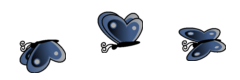
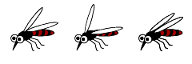
cambios!!

Changed region(s): [[0.375, 0.0625, 0.6562, 0.8125], [0.0312, 0.125, 0.3125, 0.9375], [0.7188, 0.1875, 0.9688, 0.8125]]

diff --git a/javascript/insect.js b/javascript/insect.js
@@ -16,8 +16,8 @@ Insect.prototype = new Container();
 	Insect.typeFrames = {	// frames for each insect type
 		1: {width:80, height:80, regX:40, regY:40},
 		2: {width:80, height:80, regX:40, regY:40},
-		3: {width:64, height:64, regX:32, regY:32},
-		4: {width:80, height:80, regX:40, regY:40},
+		3: {width:80, height:80, regX:40, regY:40},
+		4: {width:64, height:64, regX:32, regY:32},
 		5: {width:180, height:180, regX:90, regY:90},
 	};		
 	
@@ -87,7 +87,7 @@ Insect.prototype = new Container();
 	//handle reinit for poolings sake
 	Insect.prototype.activate = function (type, power) {
 		if (power<0) power = 0;
-		if (type >= Insect.types) type = 1;
+		if (type > Insect.types) type = 1;
 		this.type = type;
 		this.power = power;
 		
@@ -200,7 +200,18 @@ Insect.prototype = new Container();
 						//console.log(radio);
 					}
 					break;
-				case 2:	// Avispa: Se mueve rápido y efectua 3 cambios de dirección
+				case 2: // Mariposa: Baja rápidamente cuando les estan disparando y luego vuelve a subir lentamente
+				    if (this.step==0) {
+				        this.bmpAnimation.gotoAndStop('fly');
+				        this.vY = 6;
+				        this.vX = (Math.random()-0.5)*0.2;
+				    } else if (this.step==15) {
+				        this.vY = -0.2
+				        this.step=650;
+				        this.bmpAnimation.gotoAndPlay('fly');
+				    }
+				    break;
+				case 3:	// Avispa: Se mueve rápido y efectua 3 cambios de dirección
 					if (this.step%250 == 0) {
 						this.step+=200;
 						this.vX = 3 * (Math.random()-0.5);
@@ -231,11 +242,6 @@ Insect.prototype = new Container();
 						//this.vY = ((0.1+Math.random())*h)*0.01;
 					}
 					break;
-				case 3:
-					
-				case 4:
-
-				case 5:
 				
 				default:
 				

diff --git a/charca.php b/charca.php
@@ -87,8 +87,9 @@ var levelConfig = {
 	5: [85, 75, 4],	// 85
 	6: [90, 70, 4],	// 90
 	7: [95, 65, 4],	// 95
-	8: [100,60, 4],	// 100
+	8: [100,60, 5],	// 100
 	9: [105,55, 5],	// 105
+	10: [405,10, 6],// 405
 };
 
 /*
@@ -319,11 +320,18 @@ function tick() {
 		if(outOfBounds(o, o.bounds)) {
 			placeInBounds(o, o.bounds);
 		}
+		// handle insect's actions
 		if (!o.action && !o.killed) {
-			var nextAction = Math.round(((Math.random()-0.77)*5) * o.power);	// 23% de probabilidad
-			if (nextAction > 0) {
-				o.perform(nextAction);
-				//console.log('Insect '+insect+' performing action '+nextAction );
+		    if (o.type == 2) {  // Mariposa
+		        if (frog.shooting && o.hitRadius(frog.tongueTarget.x, frog.tongueTarget.y, 50)) {
+		            o.perform(1);
+		        }
+		    } else {
+			    var nextAction = Math.round(((Math.random()-0.77)*5) * o.power);	// 23% probability
+			    if (nextAction > 0) {
+				    o.perform(nextAction);
+				    //console.log('Insect '+insect+' performing action '+nextAction );
+				}
 			}
 		} else if (o.action && o.type==1) {
 			/*var g = d.graphics;
@@ -342,8 +350,8 @@ function tick() {
 		o.tick();
 	
 		if (playing) {
-			//	handle frog collisions
-			if	(frog.alive && o.hitRadius(frog.x, frog.y, frog.hit)) {
+			//	handle frog collisions (not used now)
+			if	(false && frog.alive && o.hitRadius(frog.x, frog.y, frog.hit)) {
 				frog.die();
 				messageField.text = "Estás frito. Pulsa aquí para jugar de nuevo";
 				watchRestart();
@@ -401,7 +409,7 @@ function getInsect (type, power) {
 	}
 	
 	stage.addChild(insectsCloud[i]);
-	//console.log('Added insect to stage');
+	//console.log('Added insect type '+type+' to stage');
 	return i;
 }
 
